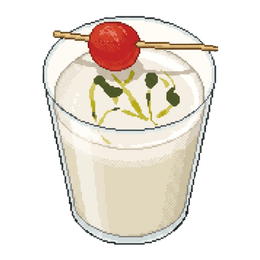
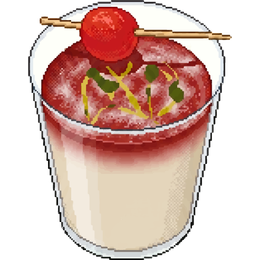
메뉴 OLIVE 사진 교체(새 픽셀 이미지, 프레임 맞춤 260x260) + 재료 tomato→tomato floating(4개 언어)

diff --git a/beta.html b/beta.html
@@ -1795,7 +1795,7 @@ const MENU_COCKTAILS = [
   { n:8,  name:'CORN', tw:'Twisted Margarita', gl:'rocks', q:'A classic Margarita that snuck into the taco truck.', ing:'tequila · mezcal · young corn · corn silk · lime · distilled tabasco' },
   { n:9,  name:'BANANA', tw:'Twisted Daiquiri', gl:'coupe', q:'Sweet, smooth, and just a little bit wild. Not your average Daiquiri — this one’s got curves.', ing:'rum · banana · lime · homemade black sesame meringue', tag:'NEW · 120th' },
   { n:10, name:'YOGURT', tw:'Twisted Kaikan Fizz', gl:'highball', q:'My wife makes yogurt at home. I stole her recipe.', ing:'vodka · apricot · peach · homemade yogurt · lime · agave · lemongrass · kaffir lime' },
-  { n:11, name:'OLIVE', tw:'Twisted Basil Smash', gl:'rocks', q:'Which ingredient in the gin is best?', ing:'gin · olive · lemon · celery bitter · basil · yuzu · cocktail foamer · peperoncino bitter · kimchi · cheese · tomato' },
+  { n:11, name:'OLIVE', tw:'Twisted Basil Smash', gl:'rocks', q:'Which ingredient in the gin is best?', ing:'gin · olive · lemon · celery bitter · basil · yuzu · cocktail foamer · peperoncino bitter · kimchi · cheese · tomato floating' },
   { n:12, name:'HOT BEER', tw:'Twisted Irish Coffee', gl:'irish', q:'Designed to recreate the warmth of coffee using dark beer.', ing:'rye whisky · peanut butter · soboro powder · coffee · Guinness · mango butter' },
   { n:13, name:'CACAO', tw:'Twisted Old Fashioned', gl:'rocks', q:'Whiskey and chocolate walk into a glass… Magic happens.', ing:'whisky · cacao bitters · lapsang souchong · port wine · chocolate · cacao nibs · baby choux' },
   { n:14, name:'COFFEE', tw:'Twisted Espresso Martini', gl:'coupe', q:'What if coffee were clear? Espresso meets mystery.', ing:'vodka · coffee · cacao nibs · amontillado · watermelon · cranberry · homemade biscoff' },
@@ -2244,7 +2244,7 @@ const CK_TR = {
   { tw:'트위스트 마가리타', q:'타코 트럭에 슬쩍 올라탄 클래식 마가리타.', ing:'데킬라 · 메즈칼 · 어린 옥수수 · 옥수수 수염 · 라임 · 증류 타바스코' },
   { tw:'트위스트 다이키리', q:'달콤하고 부드럽지만 살짝 와일드해요. 평범한 다이키리는 아니죠, 굴곡이 있거든요.', ing:'럼 · 바나나 · 라임 · 수제 흑임자 머랭' },
   { tw:'트위스트 카이칸 피즈', q:'아내가 집에서 요거트를 만들어요. 그 레시피를 슬쩍 가져왔죠.', ing:'보드카 · 살구 · 복숭아 · 수제 요거트 · 라임 · 아가베 · 레몬그라스 · 카피르 라임' },
-  { tw:'트위스트 바질 스매시', q:'진에서 제일 맛있는 재료가 뭘까요?', ing:'진 · 올리브 · 레몬 · 셀러리 비터 · 바질 · 유자 · 칵테일 포머 · 페페론치노 비터 · 김치 · 치즈 · 토마토' },
+  { tw:'트위스트 바질 스매시', q:'진에서 제일 맛있는 재료가 뭘까요?', ing:'진 · 올리브 · 레몬 · 셀러리 비터 · 바질 · 유자 · 칵테일 포머 · 페페론치노 비터 · 김치 · 치즈 · 토마토 플로팅' },
   { tw:'트위스트 아이리시 커피', q:'흑맥주로 커피 한 잔의 그 따뜻함을 담아봤어요.', ing:'라이 위스키 · 땅콩버터 · 소보로 가루 · 커피 · 기네스 · 망고 버터' },
   { tw:'트위스트 올드 패션드', q:'위스키랑 초콜릿이 한 잔에서 만나면, 마법 같은 일이 벌어져요.', ing:'위스키 · 카카오 비터 · 랍상소총 · 포트 와인 · 초콜릿 · 카카오닙스 · 베이비 슈' },
   { tw:'트위스트 에스프레소 마티니', q:'커피가 투명하다면 어떨까? 에스프레소에 신비를 한 스푼.', ing:'보드카 · 커피 · 카카오닙스 · 아몬티야도 · 수박 · 크랜베리 · 수제 비스코프' },
@@ -2261,7 +2261,7 @@ const CK_TR = {
   { tw:'ツイスト マルガリータ', q:'タコストラックにこっそり乗り込んだ、クラシックなマルガリータ。', ing:'テキーラ · メスカル · ヤングコーン · とうもろこしのひげ · ライム · 蒸留タバスコ' },
   { tw:'ツイスト ダイキリ', q:'甘くてなめらか、でもちょっとだけワイルド。ただのダイキリじゃありません、カーブがあるんです。', ing:'ラム · バナナ · ライム · 自家製黒ごまメレンゲ' },
   { tw:'ツイスト カイカンフィズ', q:'妻が家で作るヨーグルト。そのレシピ、こっそりいただきました。', ing:'ウォッカ · アプリコット · 桃 · 自家製ヨーグルト · ライム · アガベ · レモングラス · カフィアライム' },
-  { tw:'ツイスト バジルスマッシュ', q:'ジンで一番おいしい素材って、なんだと思います？', ing:'ジン · オリーブ · レモン · セロリビター · バジル · 柚子 · カクテルフォーマー · ペペロンチーノビター · キムチ · チーズ · トマト' },
+  { tw:'ツイスト バジルスマッシュ', q:'ジンで一番おいしい素材って、なんだと思います？', ing:'ジン · オリーブ · レモン · セロリビター · バジル · 柚子 · カクテルフォーマー · ペペロンチーノビター · キムチ · チーズ · トマトフローティング' },
   { tw:'ツイスト アイリッシュコーヒー', q:'黒ビールで、コーヒーみたいなあの温かさを。', ing:'ライウイスキー · ピーナッツバター · そぼろパウダー · コーヒー · ギネス · マンゴーバター' },
   { tw:'ツイスト オールドファッションド', q:'ウイスキーとチョコレートが一杯で出会うと、ちょっとした魔法が起きます。', ing:'ウイスキー · カカオビター · ラプサンスーチョン · ポートワイン · チョコレート · カカオニブ · ベビーシュー' },
   { tw:'ツイスト エスプレッソマティーニ', q:'もしコーヒーが透明だったら？ エスプレッソに、ひとさじのミステリーを。', ing:'ウォッカ · コーヒー · カカオニブ · アモンティリャード · スイカ · クランベリー · 自家製ビスコフ' },
@@ -2278,7 +2278,7 @@ const CK_TR = {
   { tw:'创意玛格丽特', q:'一杯偷偷溜上塔可餐车的经典玛格丽特。', ing:'龙舌兰 · 梅斯卡尔 · 嫩玉米 · 玉米须 · 青柠 · 蒸馏塔巴斯科辣酱' },
   { tw:'创意大吉利', q:'甜美顺滑，又带点野。这可不是普通的大吉利 —— 它有曲线。', ing:'朗姆 · 香蕉 · 青柠 · 自制黑芝麻蛋白霜' },
   { tw:'创意会馆费兹', q:'我太太在家做酸奶，配方我偷偷学来了。', ing:'伏特加 · 杏 · 桃 · 自制酸奶 · 青柠 · 龙舌兰糖浆 · 柠檬草 · 泰国青柠' },
-  { tw:'创意罗勒击碎', q:'金酒里，最好喝的原料是哪一个？', ing:'金酒 · 橄榄 · 柠檬 · 芹菜苦精 · 罗勒 · 柚子 · 鸡尾酒起泡剂 · 意式辣椒苦精 · 泡菜 · 芝士 · 番茄' },
+  { tw:'创意罗勒击碎', q:'金酒里，最好喝的原料是哪一个？', ing:'金酒 · 橄榄 · 柠檬 · 芹菜苦精 · 罗勒 · 柚子 · 鸡尾酒起泡剂 · 意式辣椒苦精 · 泡菜 · 芝士 · 漂浮番茄' },
   { tw:'创意爱尔兰咖啡', q:'用黑啤，还原咖啡那份暖意。', ing:'黑麦威士忌 · 花生酱 · 酥松粉 · 咖啡 · 健力士 · 芒果黄油' },
   { tw:'创意古典鸡尾酒', q:'威士忌和巧克力在一杯里相遇，魔法就这么发生了。', ing:'威士忌 · 可可苦精 · 正山小种 · 波特酒 · 巧克力 · 可可粒 · 迷你泡芙' },
   { tw:'创意浓缩咖啡马提尼', q:'要是咖啡是透明的呢？给浓缩咖啡，添一点神秘。', ing:'伏特加 · 咖啡 · 可可粒 · 阿蒙蒂亚多 · 西瓜 · 蔓越莓 · 自制 Biscoff 饼干' },

diff --git a/index.html b/index.html
@@ -1795,7 +1795,7 @@ const MENU_COCKTAILS = [
   { n:8,  name:'CORN', tw:'Twisted Margarita', gl:'rocks', q:'A classic Margarita that snuck into the taco truck.', ing:'tequila · mezcal · young corn · corn silk · lime · distilled tabasco' },
   { n:9,  name:'BANANA', tw:'Twisted Daiquiri', gl:'coupe', q:'Sweet, smooth, and just a little bit wild. Not your average Daiquiri — this one’s got curves.', ing:'rum · banana · lime · homemade black sesame meringue', tag:'NEW · 120th' },
   { n:10, name:'YOGURT', tw:'Twisted Kaikan Fizz', gl:'highball', q:'My wife makes yogurt at home. I stole her recipe.', ing:'vodka · apricot · peach · homemade yogurt · lime · agave · lemongrass · kaffir lime' },
-  { n:11, name:'OLIVE', tw:'Twisted Basil Smash', gl:'rocks', q:'Which ingredient in the gin is best?', ing:'gin · olive · lemon · celery bitter · basil · yuzu · cocktail foamer · peperoncino bitter · kimchi · cheese · tomato' },
+  { n:11, name:'OLIVE', tw:'Twisted Basil Smash', gl:'rocks', q:'Which ingredient in the gin is best?', ing:'gin · olive · lemon · celery bitter · basil · yuzu · cocktail foamer · peperoncino bitter · kimchi · cheese · tomato floating' },
   { n:12, name:'HOT BEER', tw:'Twisted Irish Coffee', gl:'irish', q:'Designed to recreate the warmth of coffee using dark beer.', ing:'rye whisky · peanut butter · soboro powder · coffee · Guinness · mango butter' },
   { n:13, name:'CACAO', tw:'Twisted Old Fashioned', gl:'rocks', q:'Whiskey and chocolate walk into a glass… Magic happens.', ing:'whisky · cacao bitters · lapsang souchong · port wine · chocolate · cacao nibs · baby choux' },
   { n:14, name:'COFFEE', tw:'Twisted Espresso Martini', gl:'coupe', q:'What if coffee were clear? Espresso meets mystery.', ing:'vodka · coffee · cacao nibs · amontillado · watermelon · cranberry · homemade biscoff' },
@@ -2244,7 +2244,7 @@ const CK_TR = {
   { tw:'트위스트 마가리타', q:'타코 트럭에 슬쩍 올라탄 클래식 마가리타.', ing:'데킬라 · 메즈칼 · 어린 옥수수 · 옥수수 수염 · 라임 · 증류 타바스코' },
   { tw:'트위스트 다이키리', q:'달콤하고 부드럽지만 살짝 와일드해요. 평범한 다이키리는 아니죠, 굴곡이 있거든요.', ing:'럼 · 바나나 · 라임 · 수제 흑임자 머랭' },
   { tw:'트위스트 카이칸 피즈', q:'아내가 집에서 요거트를 만들어요. 그 레시피를 슬쩍 가져왔죠.', ing:'보드카 · 살구 · 복숭아 · 수제 요거트 · 라임 · 아가베 · 레몬그라스 · 카피르 라임' },
-  { tw:'트위스트 바질 스매시', q:'진에서 제일 맛있는 재료가 뭘까요?', ing:'진 · 올리브 · 레몬 · 셀러리 비터 · 바질 · 유자 · 칵테일 포머 · 페페론치노 비터 · 김치 · 치즈 · 토마토' },
+  { tw:'트위스트 바질 스매시', q:'진에서 제일 맛있는 재료가 뭘까요?', ing:'진 · 올리브 · 레몬 · 셀러리 비터 · 바질 · 유자 · 칵테일 포머 · 페페론치노 비터 · 김치 · 치즈 · 토마토 플로팅' },
   { tw:'트위스트 아이리시 커피', q:'흑맥주로 커피 한 잔의 그 따뜻함을 담아봤어요.', ing:'라이 위스키 · 땅콩버터 · 소보로 가루 · 커피 · 기네스 · 망고 버터' },
   { tw:'트위스트 올드 패션드', q:'위스키랑 초콜릿이 한 잔에서 만나면, 마법 같은 일이 벌어져요.', ing:'위스키 · 카카오 비터 · 랍상소총 · 포트 와인 · 초콜릿 · 카카오닙스 · 베이비 슈' },
   { tw:'트위스트 에스프레소 마티니', q:'커피가 투명하다면 어떨까? 에스프레소에 신비를 한 스푼.', ing:'보드카 · 커피 · 카카오닙스 · 아몬티야도 · 수박 · 크랜베리 · 수제 비스코프' },
@@ -2261,7 +2261,7 @@ const CK_TR = {
   { tw:'ツイスト マルガリータ', q:'タコストラックにこっそり乗り込んだ、クラシックなマルガリータ。', ing:'テキーラ · メスカル · ヤングコーン · とうもろこしのひげ · ライム · 蒸留タバスコ' },
   { tw:'ツイスト ダイキリ', q:'甘くてなめらか、でもちょっとだけワイルド。ただのダイキリじゃありません、カーブがあるんです。', ing:'ラム · バナナ · ライム · 自家製黒ごまメレンゲ' },
   { tw:'ツイスト カイカンフィズ', q:'妻が家で作るヨーグルト。そのレシピ、こっそりいただきました。', ing:'ウォッカ · アプリコット · 桃 · 自家製ヨーグルト · ライム · アガベ · レモングラス · カフィアライム' },
-  { tw:'ツイスト バジルスマッシュ', q:'ジンで一番おいしい素材って、なんだと思います？', ing:'ジン · オリーブ · レモン · セロリビター · バジル · 柚子 · カクテルフォーマー · ペペロンチーノビター · キムチ · チーズ · トマト' },
+  { tw:'ツイスト バジルスマッシュ', q:'ジンで一番おいしい素材って、なんだと思います？', ing:'ジン · オリーブ · レモン · セロリビター · バジル · 柚子 · カクテルフォーマー · ペペロンチーノビター · キムチ · チーズ · トマトフローティング' },
   { tw:'ツイスト アイリッシュコーヒー', q:'黒ビールで、コーヒーみたいなあの温かさを。', ing:'ライウイスキー · ピーナッツバター · そぼろパウダー · コーヒー · ギネス · マンゴーバター' },
   { tw:'ツイスト オールドファッションド', q:'ウイスキーとチョコレートが一杯で出会うと、ちょっとした魔法が起きます。', ing:'ウイスキー · カカオビター · ラプサンスーチョン · ポートワイン · チョコレート · カカオニブ · ベビーシュー' },
   { tw:'ツイスト エスプレッソマティーニ', q:'もしコーヒーが透明だったら？ エスプレッソに、ひとさじのミステリーを。', ing:'ウォッカ · コーヒー · カカオニブ · アモンティリャード · スイカ · クランベリー · 自家製ビスコフ' },
@@ -2278,7 +2278,7 @@ const CK_TR = {
   { tw:'创意玛格丽特', q:'一杯偷偷溜上塔可餐车的经典玛格丽特。', ing:'龙舌兰 · 梅斯卡尔 · 嫩玉米 · 玉米须 · 青柠 · 蒸馏塔巴斯科辣酱' },
   { tw:'创意大吉利', q:'甜美顺滑，又带点野。这可不是普通的大吉利 —— 它有曲线。', ing:'朗姆 · 香蕉 · 青柠 · 自制黑芝麻蛋白霜' },
   { tw:'创意会馆费兹', q:'我太太在家做酸奶，配方我偷偷学来了。', ing:'伏特加 · 杏 · 桃 · 自制酸奶 · 青柠 · 龙舌兰糖浆 · 柠檬草 · 泰国青柠' },
-  { tw:'创意罗勒击碎', q:'金酒里，最好喝的原料是哪一个？', ing:'金酒 · 橄榄 · 柠檬 · 芹菜苦精 · 罗勒 · 柚子 · 鸡尾酒起泡剂 · 意式辣椒苦精 · 泡菜 · 芝士 · 番茄' },
+  { tw:'创意罗勒击碎', q:'金酒里，最好喝的原料是哪一个？', ing:'金酒 · 橄榄 · 柠檬 · 芹菜苦精 · 罗勒 · 柚子 · 鸡尾酒起泡剂 · 意式辣椒苦精 · 泡菜 · 芝士 · 漂浮番茄' },
   { tw:'创意爱尔兰咖啡', q:'用黑啤，还原咖啡那份暖意。', ing:'黑麦威士忌 · 花生酱 · 酥松粉 · 咖啡 · 健力士 · 芒果黄油' },
   { tw:'创意古典鸡尾酒', q:'威士忌和巧克力在一杯里相遇，魔法就这么发生了。', ing:'威士忌 · 可可苦精 · 正山小种 · 波特酒 · 巧克力 · 可可粒 · 迷你泡芙' },
   { tw:'创意浓缩咖啡马提尼', q:'要是咖啡是透明的呢？给浓缩咖啡，添一点神秘。', ing:'伏特加 · 咖啡 · 可可粒 · 阿蒙蒂亚多 · 西瓜 · 蔓越莓 · 自制 Biscoff 饼干' },
